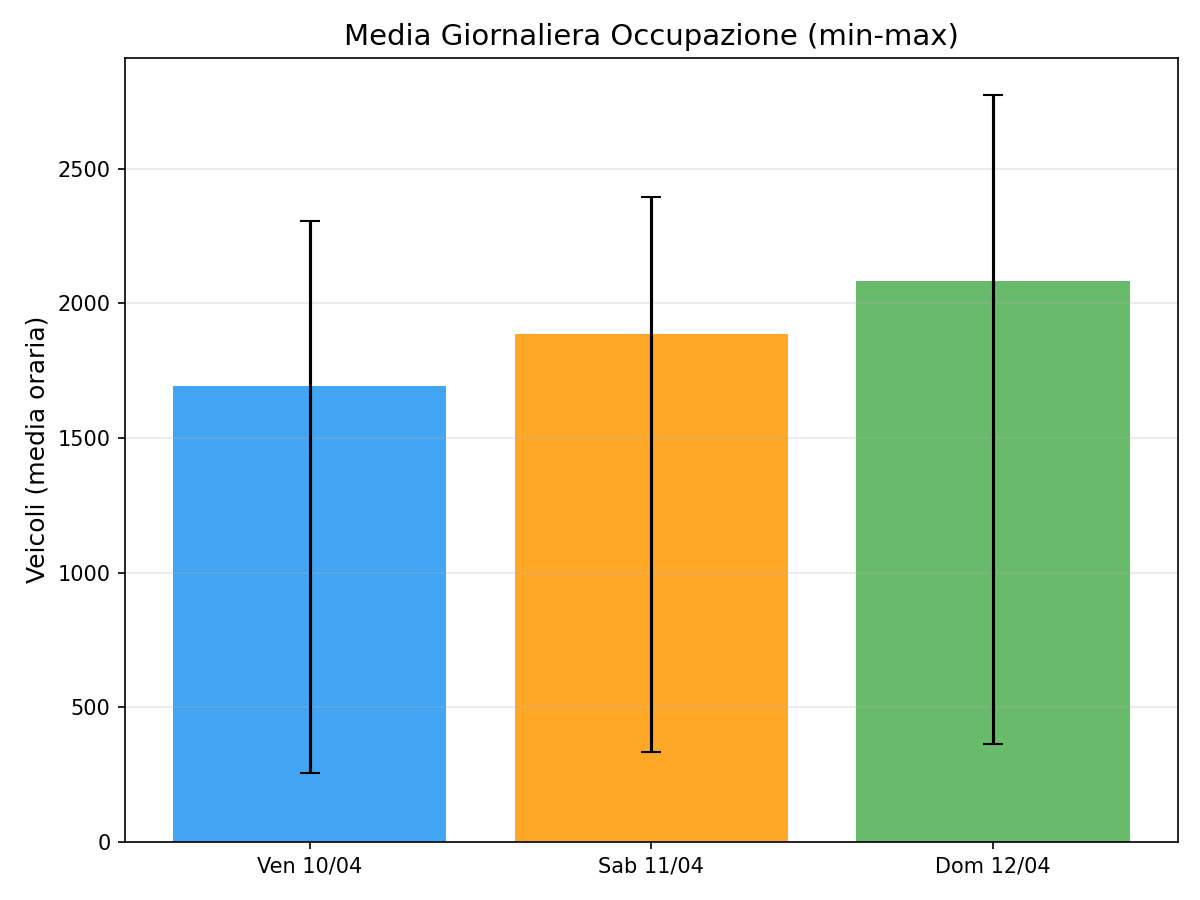
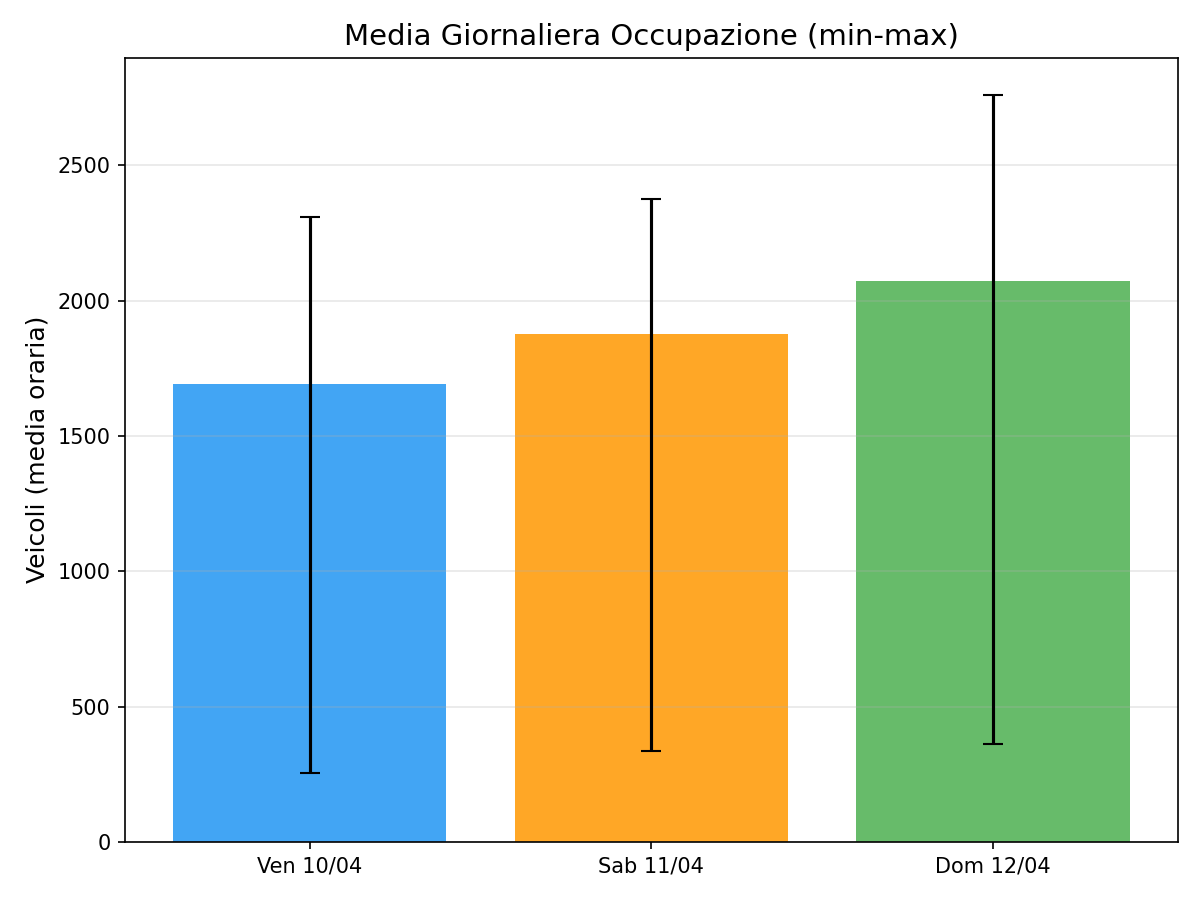
fix: dati aggiornati con maschere Area 9, rimossa doppia correzione app

diff --git a/app.py b/app.py
@@ -173,11 +173,7 @@ def load_area_data() -> pd.DataFrame:
         if new_rows:
             df = pd.concat([df, pd.DataFrame(new_rows)], ignore_index=True)
             df = df.sort_values(["giorno", "ora", "area"]).reset_index(drop=True)
-    # Correzione Area 9: striscia dx non è Area 9 (~35% delle detection)
-    mask_a9 = (df["area"] == "Area 9") & (df["ora"] >= 1000) & (df["ora"] <= 1900)
-    df.loc[mask_a9, "car"] = df.loc[mask_a9, "car"].apply(lambda x: round(x * 0.65))
-    df.loc[mask_a9, "truck"] = df.loc[mask_a9, "truck"].apply(lambda x: round(x * 0.65))
-    df.loc[mask_a9, "total"] = df.loc[mask_a9, ["car", "bus", "truck"]].sum(axis=1)
+    # Area 9: correzione già applicata nelle maschere (rimossi R2-Dx e R3-mid-Dx)
     return df
 
 
